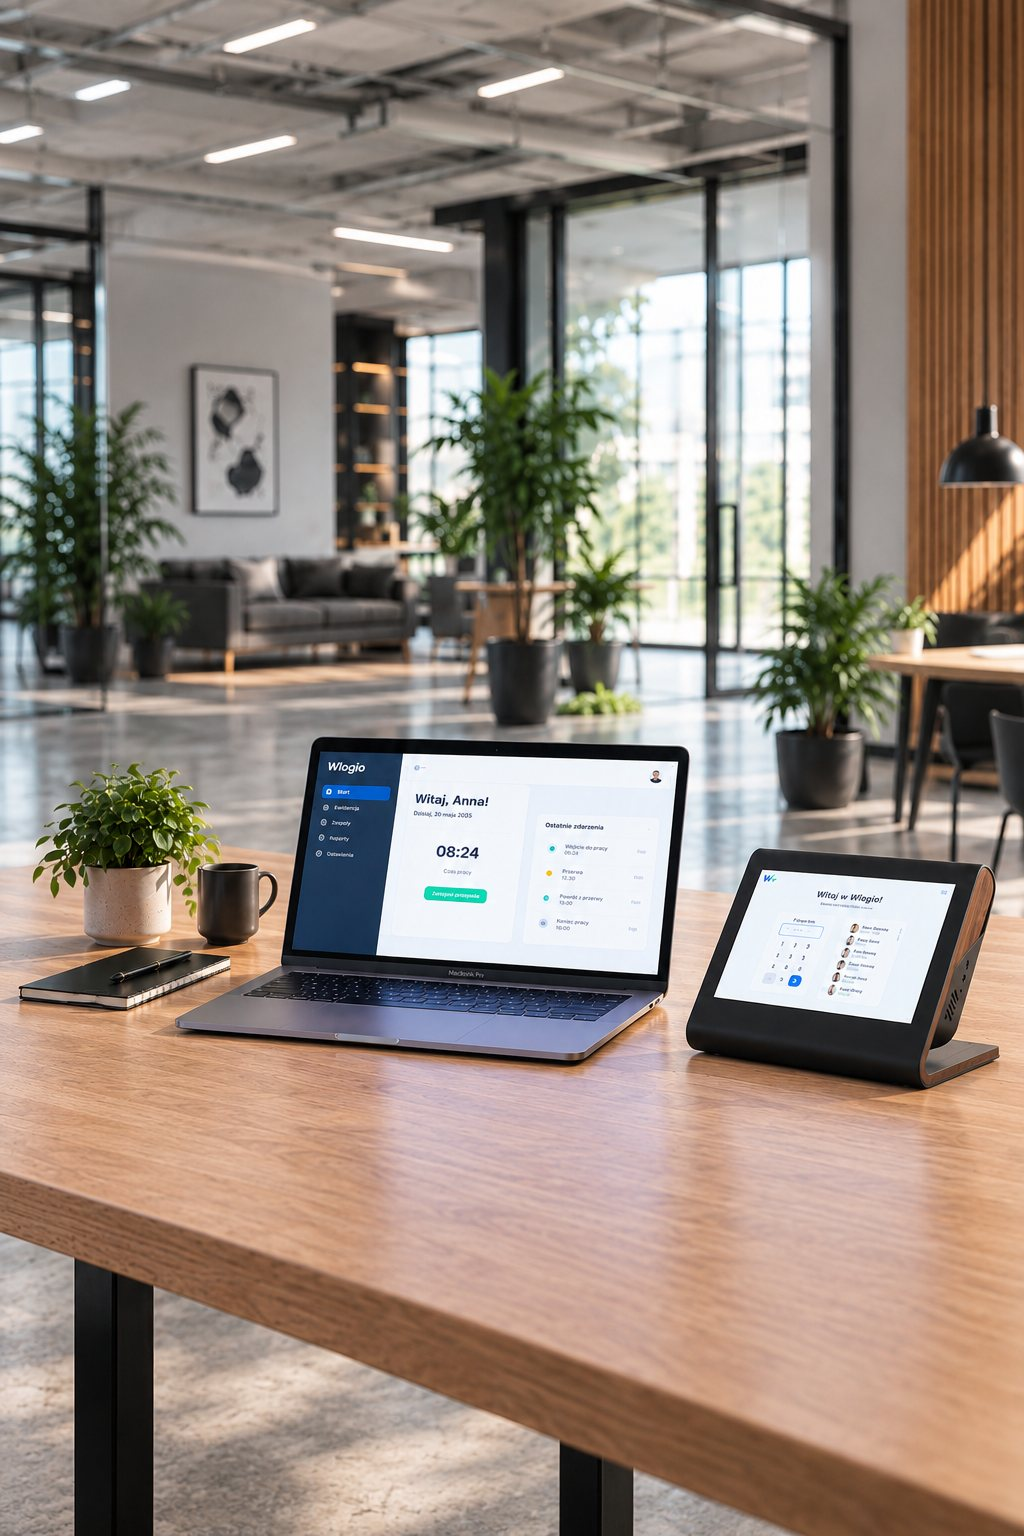
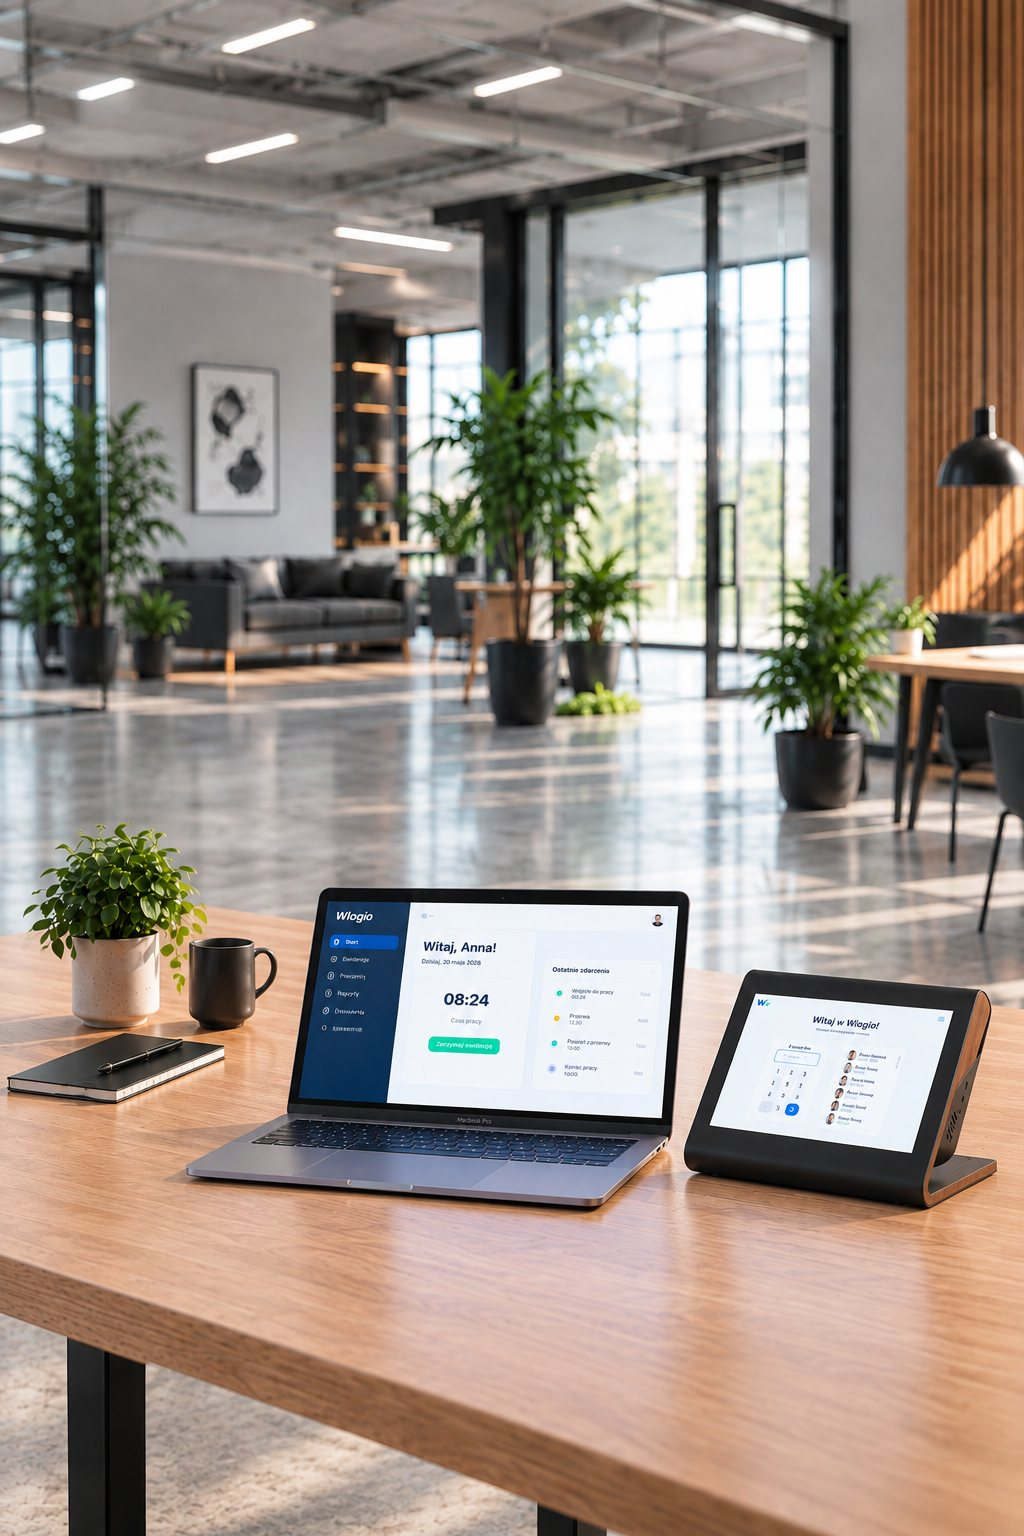
feat(landing): new portrait hero image, CTA moved under text, devices at bottom

diff --git a/landing/assets/css/style.css b/landing/assets/css/style.css
@@ -397,17 +397,17 @@ input:-webkit-autofill,input:-webkit-autofill:hover,input:-webkit-autofill:focus
 input:autofill{background-color:#fff !important; color:var(--ink) !important; filter:none;}
 input:-moz-autofill{background-color:#fff !important; color:var(--ink) !important; filter:none;}
 
-/* Telefony i ekrany pionowe: osobne zdjęcie (pionowe, 2:3). Zdjęcie jest powiększone do 118% szerokości
+/* Telefony i ekrany pionowe: osobne zdjęcie (pionowe, 2:3). Zdjęcie jest powiększone do 119% szerokości
    i przesunięte tak, by laptop + terminal były na środku z równymi marginesami.
-   Tekst jest nad urządzeniami, przycisk pod nimi. Wysokość sekcji = wysokość zdjęcia (177vw). */
+   Tekst jest nad urządzeniami, przycisk pod nimi. Wysokość sekcji = 152vw — dół zdjęcia przycięty, urządzenia przy dole sekcji. */
 @media (max-width:700px), (orientation:portrait) and (max-width:980px){
-  .hero{display:block; height:177vw; min-height:0; padding:84px 0 5vw; background-image:url("../img/hero-bg-mobile.jpg");
-        background-size:118vw auto; background-position:-17.8vw 0; background-repeat:no-repeat; background-color:#cfc8bd;}
-  .hero::before{background:linear-gradient(180deg,rgba(0,0,0,.6) 0,rgba(0,0,0,.42) 22%,rgba(0,0,0,.08) 40%,rgba(0,0,0,0) 62%,rgba(0,0,0,.22) 100%);}
+  .hero{display:block; height:152vw; min-height:0; padding:84px 0 5vw; background-image:url("../img/hero-bg-mobile.jpg");
+        background-size:119vw auto; background-position:-19vw 0; background-repeat:no-repeat; background-color:#cfc8bd;}
+  .hero::before{background:linear-gradient(180deg,rgba(0,0,0,.6) 0,rgba(0,0,0,.45) 26%,rgba(0,0,0,.12) 44%,rgba(0,0,0,0) 62%,rgba(0,0,0,.12) 100%);}
   .hero .wrap{height:100%; display:flex; flex-direction:column; align-items:flex-start; text-align:left;}
   .hero-copy{display:contents;}
   .hero h1{font-size:clamp(25px,7.6vw,34px); line-height:1.1;}
   .hero p.lead{font-size:clamp(13.5px,3.9vw,16px); margin-top:12px; max-width:32ch;}
-  .hero-cta{margin-top:auto; margin-bottom:10vw; align-self:center; justify-content:center; width:100%;}
+  .hero-cta{margin-top:20px; margin-bottom:0; align-self:center; justify-content:center; width:100%;}
   .hero-cta .btn{width:100%; max-width:340px;}
 }
